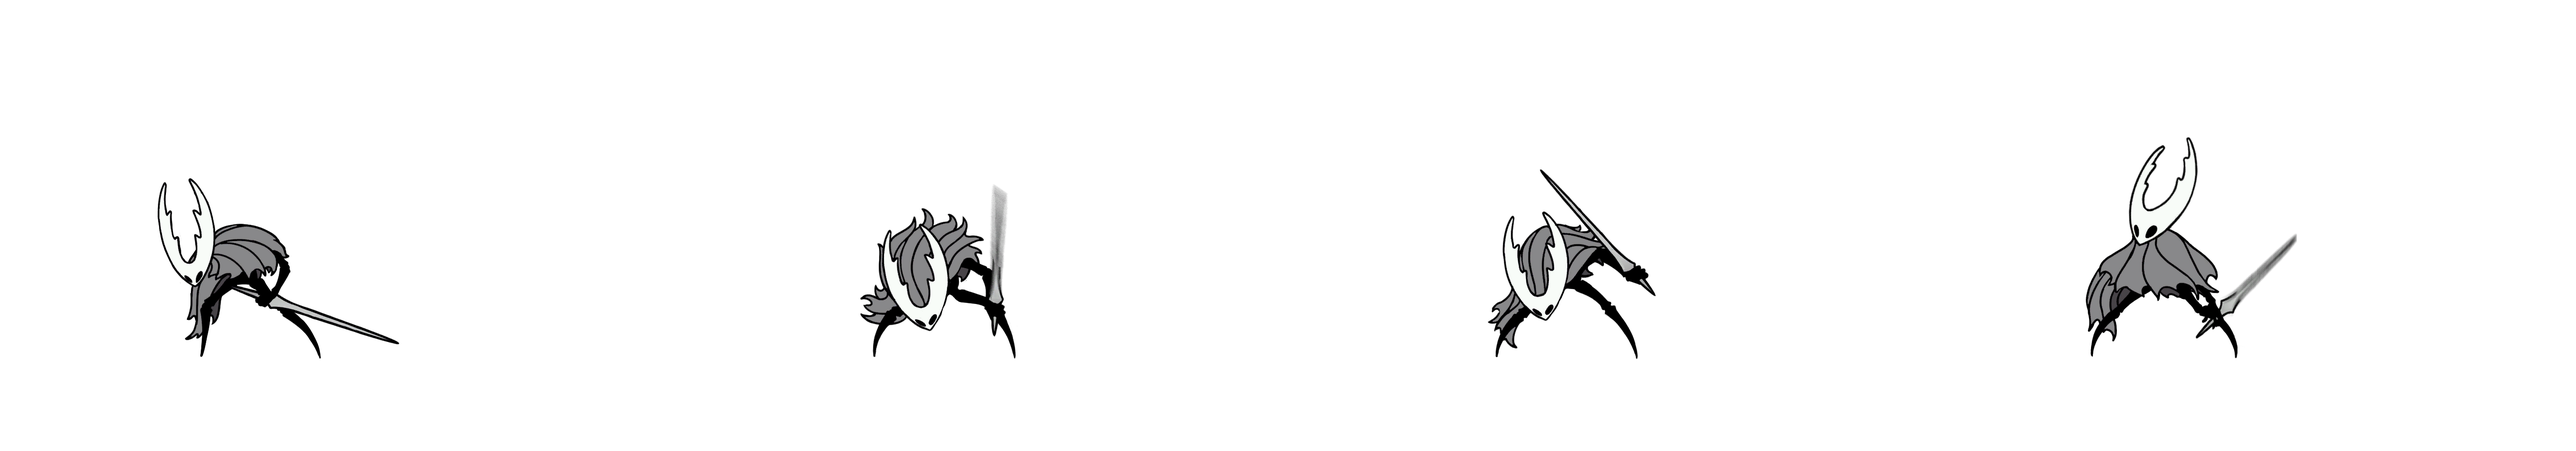
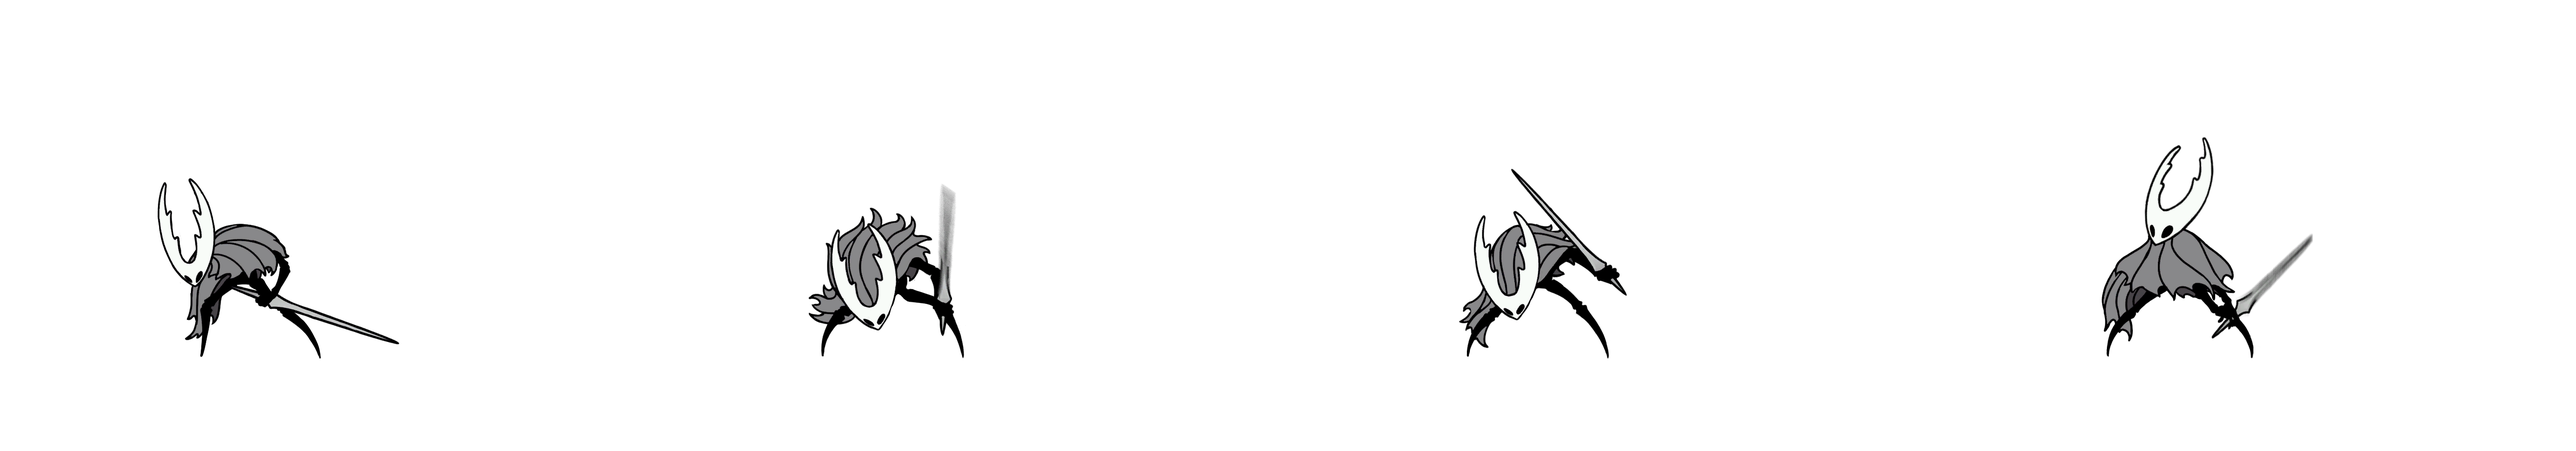
Intro 완성

Changed region(s): [[0.8125, 0.3084, 0.9062, 0.7709], [0.3125, 0.4317, 0.4062, 0.7709], [0.5625, 0.4009, 0.6562, 0.7709]]

diff --git a/GameEngine/kmPureVessel.cpp b/GameEngine/kmPureVessel.cpp
@@ -6,10 +6,15 @@
 #include "kmRigidbody.h"
 #include "kmCollider2D.h"
 #include "kmCollisionManager.h"
+#include "kmTime.h"
 
 namespace km
 {
 	PureVessel::PureVessel()
+		:IntroStart(0.0f)
+		, Intro02_Start(0.0f)
+		, Intro03_Start(0.0f)
+		, Intro_End(0.0f)
 	{
 	}
 	PureVessel::~PureVessel()
@@ -27,6 +32,7 @@ namespace km
 		mr->SetMaterial(Resources::Find<Material>(L"SpriteAnimaionMaterial"));
 				
 		//Intro Image
+		std::shared_ptr<Texture> Intro_Idle = Resources::Load<Texture>(L"Intro_Idle", L"..\\Resources\\Boss_PureVessel\\PureVessel\\Intro\\Intro_Idle\\Intro_Idle.png");
 		std::shared_ptr<Texture> Intro00 = Resources::Load<Texture>(L"Intro00", L"..\\Resources\\Boss_PureVessel\\PureVessel\\Intro\\Intro_00\\Intro_00.png");
 		std::shared_ptr<Texture> Intro01 = Resources::Load<Texture>(L"Intro01", L"..\\Resources\\Boss_PureVessel\\PureVessel\\Intro\\Intro_01\\Intro_01.png");
 		std::shared_ptr<Texture> Intro02 = Resources::Load<Texture>(L"Intro02", L"..\\Resources\\Boss_PureVessel\\PureVessel\\Intro\\Intro_02\\Intro_02.png");
@@ -120,13 +126,14 @@ namespace km
 		std::shared_ptr<Texture> Spike_End_Right = Resources::Load<Texture>(L"Spike_End_Right", L"..\\Resources\\Boss_PureVessel\\PureVessel\\Pattern\\SpikeAttack\\End\\Right\\SpikeAttack_End_Right.png");
 
 		//Intro Animation
+		mAnimation->Create(L"Intro_Idle", Intro_Idle, Vector2(0.0f, 0.0f), Vector2(648.0f, 692.0f), 1, Vector2(0.0f, 0.02f), 0.1f);
 		mAnimation->Create(L"Intro00", Intro00, Vector2(0.0f, 0.0f), Vector2(648.0f, 692.0f), 1, Vector2(0.0f, 0.02f), 0.1f);
-		mAnimation->Create(L"Intro01", Intro01, Vector2(0.0f, 0.0f), Vector2(648.0f, 692.0f), 3, Vector2(0.0f, 0.02f), 0.1f);
-		mAnimation->Create(L"Intro02", Intro02, Vector2(0.0f, 0.0f), Vector2(648.0f, 692.0f), 3, Vector2(0.0f, 0.02f), 0.1f);
+		mAnimation->Create(L"Intro01", Intro01, Vector2(0.0f, 0.0f), Vector2(648.0f, 692.0f), 2, Vector2(0.0f, 0.02f), 0.1f);
+		mAnimation->Create(L"Intro02", Intro02, Vector2(0.0f, 0.0f), Vector2(648.0f, 692.0f), 3, Vector2(0.06f, 0.02f), 0.07f);
 		mAnimation->Create(L"Intro03", Intro03, Vector2(0.0f, 0.0f), Vector2(648.0f, 692.0f), 1, Vector2(0.0f, 0.02f), 0.1f);
-		mAnimation->Create(L"Intro04", Intro04, Vector2(0.0f, 0.0f), Vector2(1296.0f, 908.0f), 12, Vector2(0.0f, 0.02f), 0.1f);
-		mAnimation->Create(L"Intro05", Intro05, Vector2(0.0f, 0.0f), Vector2(1296.0f, 908.0f), 4, Vector2(0.0f, 0.02f), 0.1f);
-		mAnimation->Create(L"Intro06", Intro06, Vector2(0.0f, 0.0f), Vector2(1296.0f, 908.0f), 5, Vector2(0.0f, 0.02f), 0.1f);
+		mAnimation->Create(L"Intro04", Intro04, Vector2(0.0f, 0.0f), Vector2(1296.0f, 908.0f), 12, Vector2(0.02f, 0.02f), 0.1f);
+		mAnimation->Create(L"Intro05", Intro05, Vector2(0.0f, 0.0f), Vector2(1296.0f, 908.0f), 4, Vector2(0.06f, 0.02f), 0.1f);
+		mAnimation->Create(L"Intro06", Intro06, Vector2(0.0f, 0.0f), Vector2(1296.0f, 908.0f), 5, Vector2(0.06f, 0.02f), 0.1f);
 
 		//Idle Animation
 		mAnimation->Create(L"Idle_Left", Idle_Left, Vector2(0.0f, 0.0f), Vector2(1296.0f, 908.0f), 5, Vector2(0.0f, 0.02f), 0.1f);
@@ -213,10 +220,58 @@ namespace km
 		mAnimation->Create(L"Spike_End_Right", Spike_End_Right, Vector2(0.0f, 0.0f), Vector2(1296.0f, 908.0f), 4, Vector2(0.0f, 0.02f), 0.1f);
 
 
+
+
+
+		mAnimation->CompleteEvent(L"Intro00") = std::bind(&PureVessel::Intro_01, this);
+		mAnimation->CompleteEvent(L"Intro03") = std::bind(&PureVessel::Intro_04, this);
+		mAnimation->CompleteEvent(L"Intro04") = std::bind(&PureVessel::Intro_05, this);
+		mAnimation->CompleteEvent(L"Intro05") = std::bind(&PureVessel::Intro_06, this);
+
+
+		mTransform->SetScale(Vector3(0.55f, 0.62f, 0.0f));
+		mTransform->SetPosition(Vector3(0.4f, -0.15f, 0.0f));
+		//mCollider->SetSize(Vector2(0.6f, 0.6f));
 		GameObject::Initialize();
 	}
 	void PureVessel::Update()
 	{
+		IntroStart += Time::DeltaTime();
+		if (IntroStart > 2.0f && IntroStart_Check)
+		{
+			IntroStart_Check = false;
+			Intro_00();
+		}
+
+		if (Intro_02_Start_Check)
+		{		
+			Intro02_Start += Time::DeltaTime();
+			if (Intro02_Start > 2.0f)
+			{
+				Intro_02_Start_Check = false;
+				Intro_02();
+			}
+		}
+		if (Intro_03_Start_Check)
+		{
+			Intro03_Start += Time::DeltaTime();
+		
+			if (Intro03_Start > 3.0f)
+			{
+				Intro_03_Start_Check = false;
+				Intro_03();
+			}
+		}
+
+		if (Intro_End_Check)
+		{
+			Intro_End += Time::DeltaTime();
+			if (Intro_End > 3.0f)
+			{
+				Intro_End_Check = false;
+				Idle();
+			}
+		}
 
 		GameObject::Update();
 	}
@@ -233,12 +288,58 @@ namespace km
 	{
 	}
 
+	void PureVessel::Intro_Idle()
+	{
+		mAnimation->PlayAnimation(L"Intro_Idle", true);
+	}
+
+	void PureVessel::Intro_00()
+	{
+		mAnimation->PlayAnimation(L"Intro00", true);
+	}
+
+	void PureVessel::Intro_01()
+	{
+		mAnimation->PlayAnimation(L"Intro01", true);
+		Intro_02_Start_Check = true;
+	}
+
+	void PureVessel::Intro_02()
+	{
+		mAnimation->PlayAnimation(L"Intro02", true);
+		Intro_03_Start_Check = true;
+	}
+
+	void PureVessel::Intro_03()
+	{
+		mAnimation->PlayAnimation(L"Intro03", true);
+	}
+
+	void PureVessel::Intro_04()
+	{
+		mTransform->SetScale(Vector3(0.8f, 1.0f, 0.0f));
+		mTransform->SetPosition(Vector3(0.4f, -0.09f, 0.0f));
+		mAnimation->PlayAnimation(L"Intro04", true);
+	}
+
+	void PureVessel::Intro_05()
+	{
+		mAnimation->PlayAnimation(L"Intro05", true);
+	}
+
+	void PureVessel::Intro_06()
+	{
+		mAnimation->PlayAnimation(L"Intro06", true);
+		Intro_End_Check = true;
+	}
+
 	void PureVessel::Pattern()
 	{
 	}
 
 	void PureVessel::Idle()
 	{
+		mAnimation->PlayAnimation(L"Idle_Left", true);
 	}
 
 	void PureVessel::Counter()

diff --git a/GameEngine/kmPureVessel.h b/GameEngine/kmPureVessel.h
@@ -19,6 +19,15 @@ namespace km
 		virtual void OnCollisionExit(Collider2D* other) override;
 
 	public:
+		void Intro_Idle();
+		void Intro_00();
+		void Intro_01();
+		void Intro_02();
+		void Intro_03();
+		void Intro_04();
+		void Intro_05();
+		void Intro_06();
+
 		void Pattern();
 
 		void Idle();
@@ -40,6 +49,18 @@ namespace km
 		Collider2D* mCollider;
 		Rigidbody* mRigidbody;
 		Player* mPlayer;
+
+	private:
+		float IntroStart;
+		float Intro02_Start;
+		float Intro03_Start;
+		float Intro_End;
+
+	private:
+		bool IntroStart_Check = true;
+		bool Intro_02_Start_Check = false;
+		bool Intro_03_Start_Check = false;
+		bool Intro_End_Check = false;
 	};
 }
 

diff --git a/GameEngine/Boss_PureVessel_Stage.cpp b/GameEngine/Boss_PureVessel_Stage.cpp
@@ -120,7 +120,7 @@ namespace km
 	}
 	void Boss_PureVessel_Stage::OnEnter()
 	{
-		mPureVessel->Initialize();
+		mPureVessel->Intro_Idle();
 		renderer::mainCamera = mCamera;
 	}
 	void Boss_PureVessel_Stage::OnExit()
